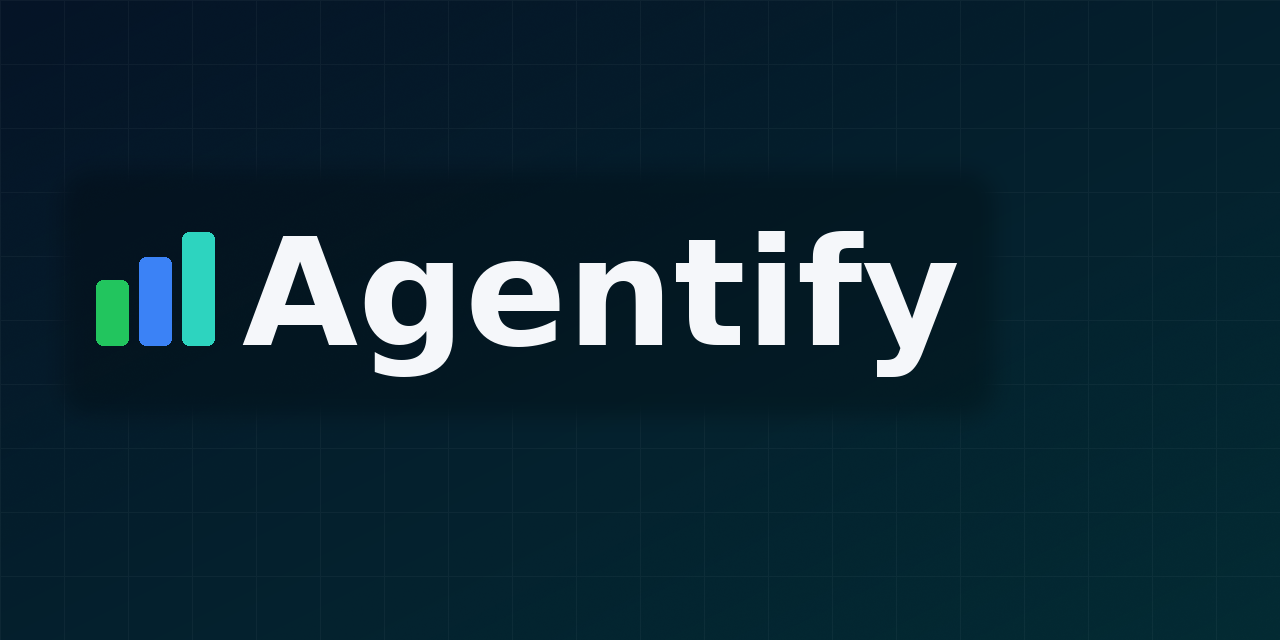
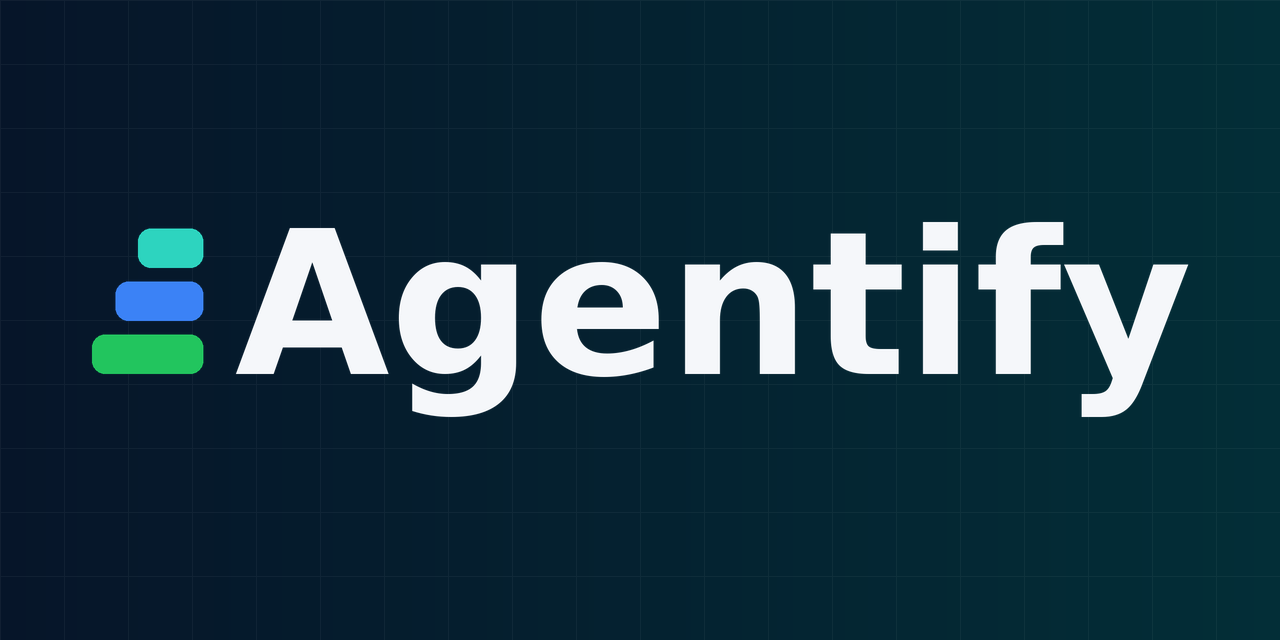
Update Agentify brand assets
Implement new "sandwich" logo design across all brand assets.
This update includes revised SVG files for the logo and mark, regenerated PNG versions, and a new style guide reflecting the updated visual identity and geometry.

Changed region(s): [[0.0625, 0.3438, 0.9375, 0.6562]]

diff --git a/assets/brand/agentify_mini_style_guide.md b/assets/brand/agentify_mini_style_guide.md
@@ -1,40 +1,23 @@
-# Agentify — Mini Style Guide (v0.1)
+# Agentify mini style guide (sandwich mark)
 
-## Logo construction
-**Mark:** 3 vertical columns, equal width, increasing height left→right (foundation + growth + 3 layers).
+## Colors
+- Background gradient (recommended): **#061529 → #032E37**
+- Wordmark text: **#F5F7FA**
+- Mark layers (top → bottom): **#2DD4BF / #3B82F6 / #22C55E**
 
-- Column width (**w**): `w`
-- Gap between columns: `0.35w`
-- Heights (relative to max height):
-  - Col 1: `0.58H`
-  - Col 2: `0.78H`
-  - Col 3: `1.00H`
-- Corner radius: `0.22w` (subtle rounding)
+## Mark meaning
+- 3 layers → 3-layer architecture (core / knowledge base / skills-workflows)
+- Foundation + growth: widths expand downward; stack reads as steps / base
 
-**Wordmark:** “Agentify” — modern neutral sans-serif, **Semibold/Bold** (weight 600–700), slight negative tracking.
+## Mark geometry (relative)
+- Stack height == cap-height of the capital **“A”** in Agentify (in the lockup)
+- Right edges aligned
+- Width ratios (bottom = 1.00): **top 0.584 / mid 0.788 / bottom 1.000**
+- Gap to layer ratio: **gap = 0.36 × layer height**
+- Bottom width vs stack height: **0.76 × stack height**
+- Corner radius: **~0.33 × layer height**
 
-## Spacing
-- Space between mark and wordmark: `~0.9w`
-- Minimum clear space around the full lockup: `>= 1.0w` on all sides
-- For multi-line cover text: align all lines to the **left edge of the mark** (same x-axis).
-
-## Color palette
-**Mark columns**
-- Green: `#22C55E`
-- Blue:  `#3B82F6`
-- Teal:  `#2DD4BF`
-
-**Text**
-- Near-white: `#F5F7FA`
-
-**Background (recommended)**
-- Gradient start (navy): `#061529`
-- Gradient end (deep teal): `#032E37`
-
-Optional structural grid (very subtle):
-- Color: `#F5F7FA` at ~4% opacity
-- Do **not** draw grid over the logo/primary text area.
-
-## GitHub Social Preview (1280×640)
-- Recommended safe margins: `64px`
-- Logo lockup: place in left ~40% of the canvas, leave right side for title/summary text.
+## Lockup layout
+- Mark left, wordmark right
+- Mark height == capital “A” height
+- Mark → word spacing: ~0.22×(mark height)
